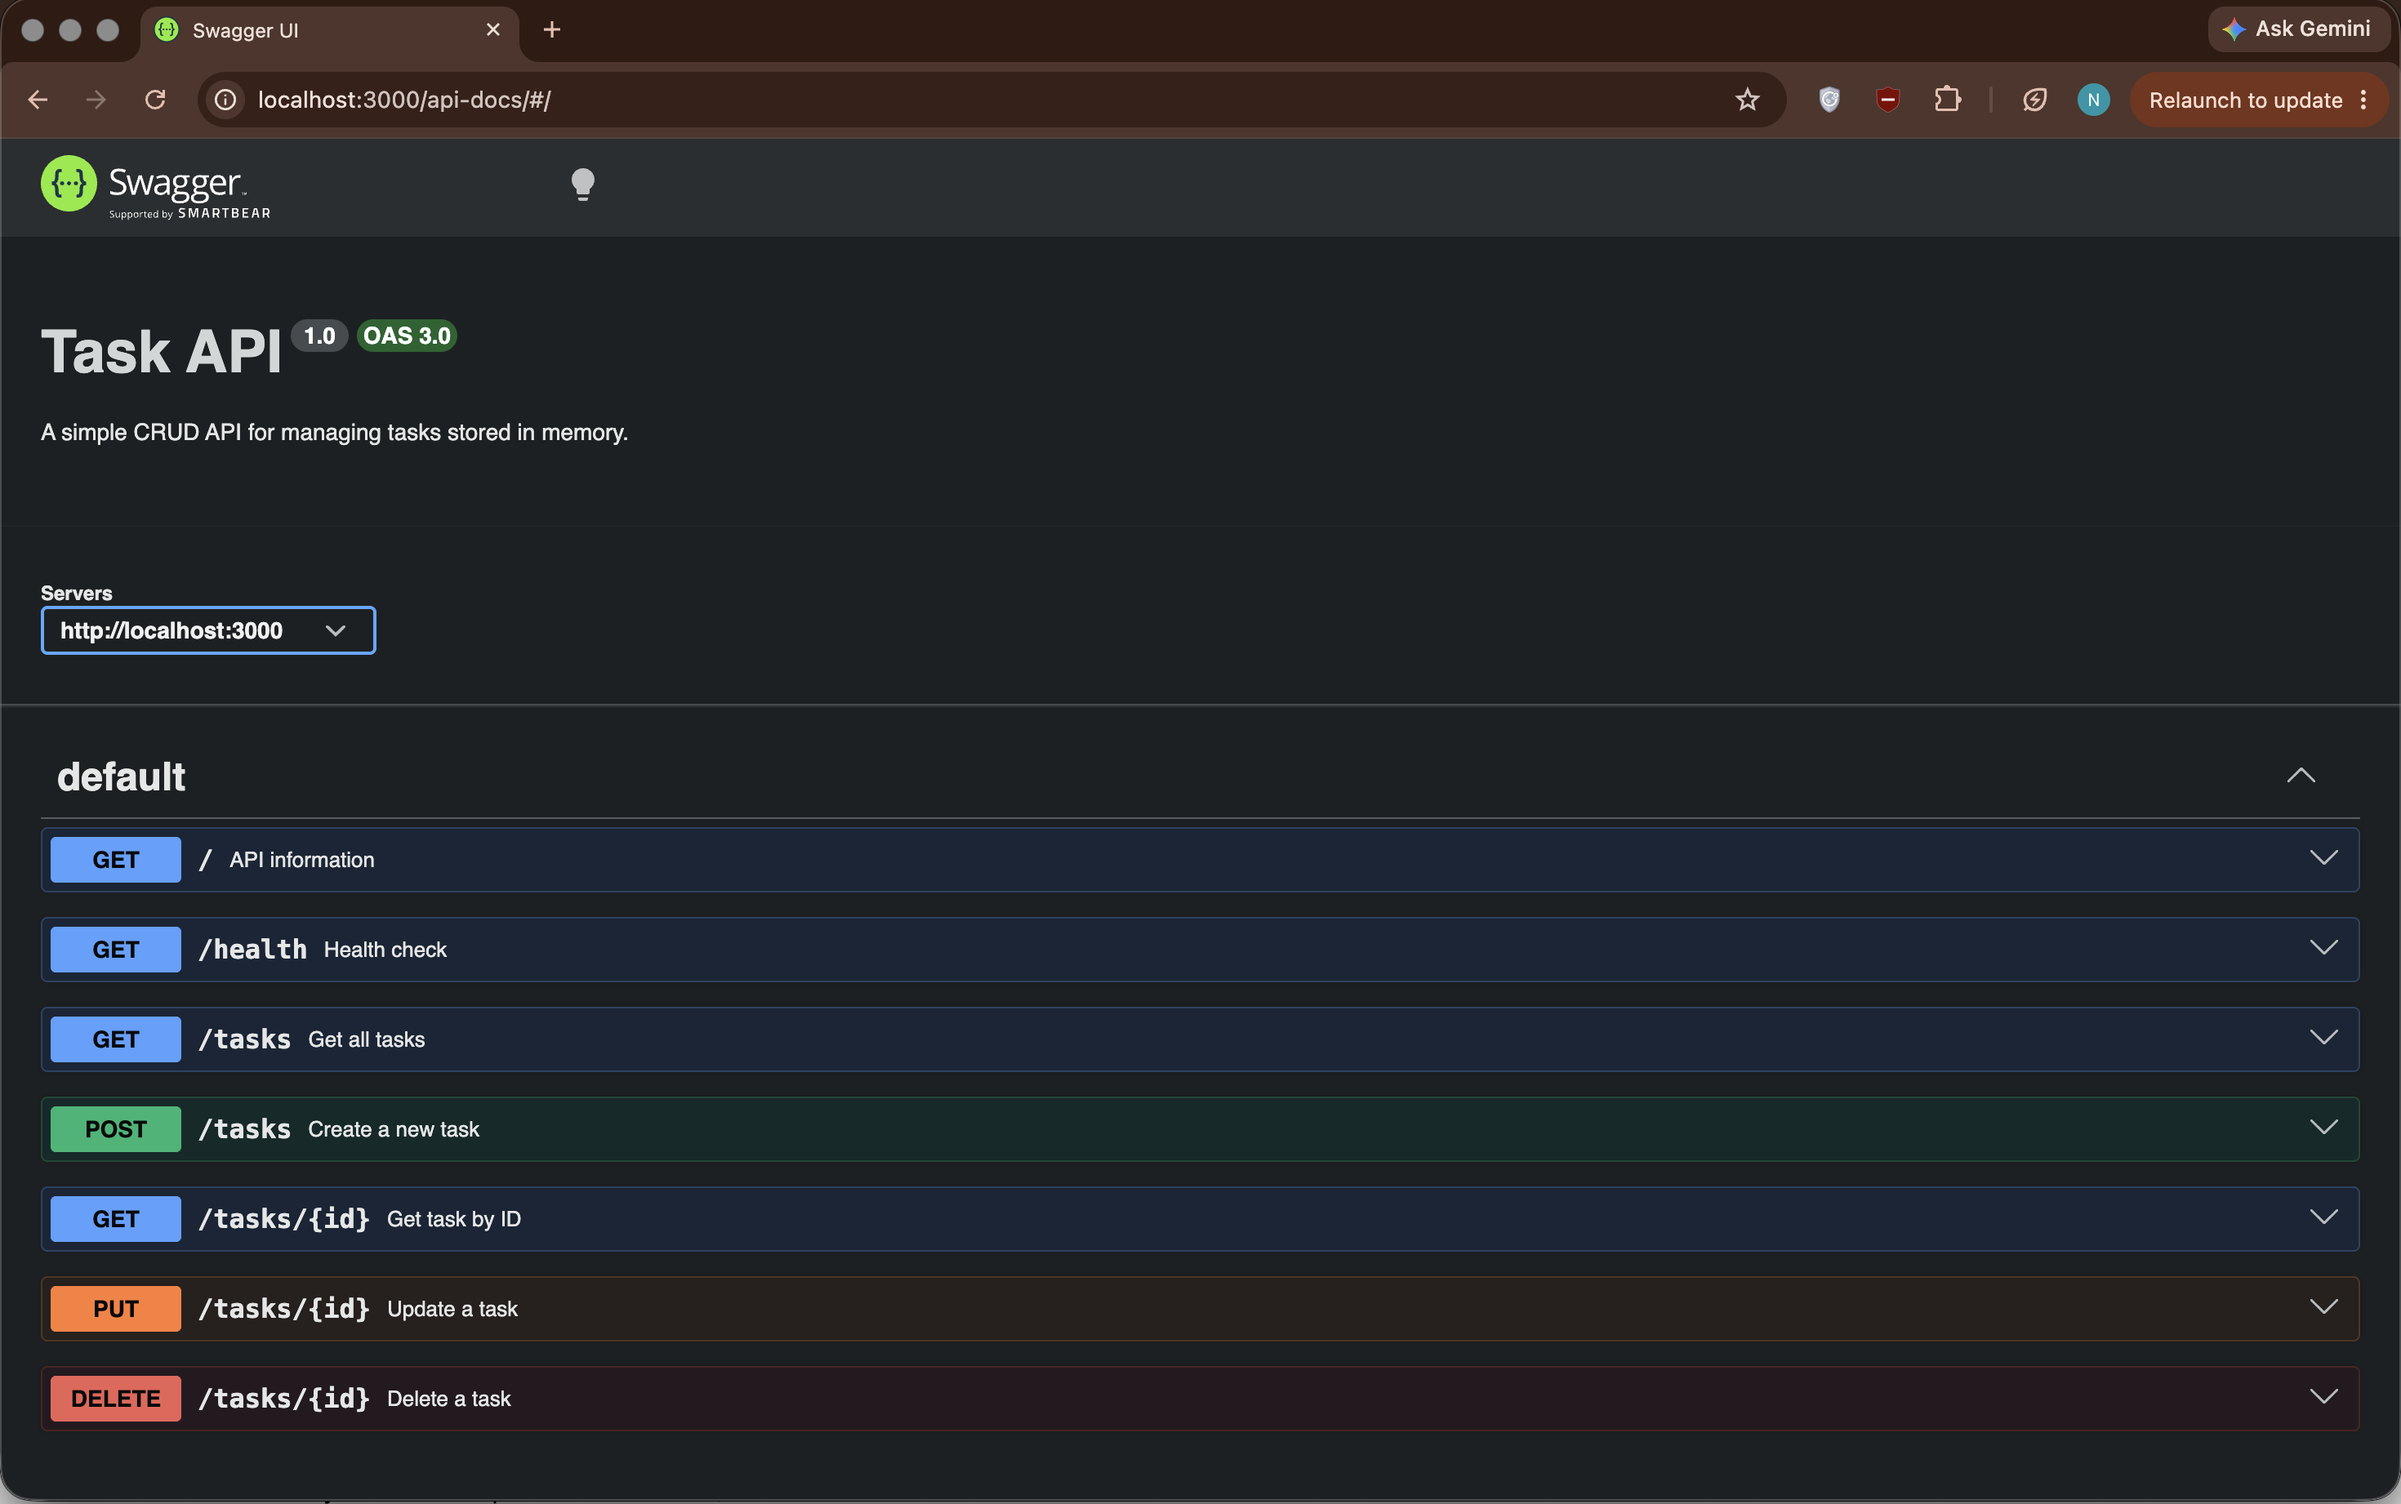
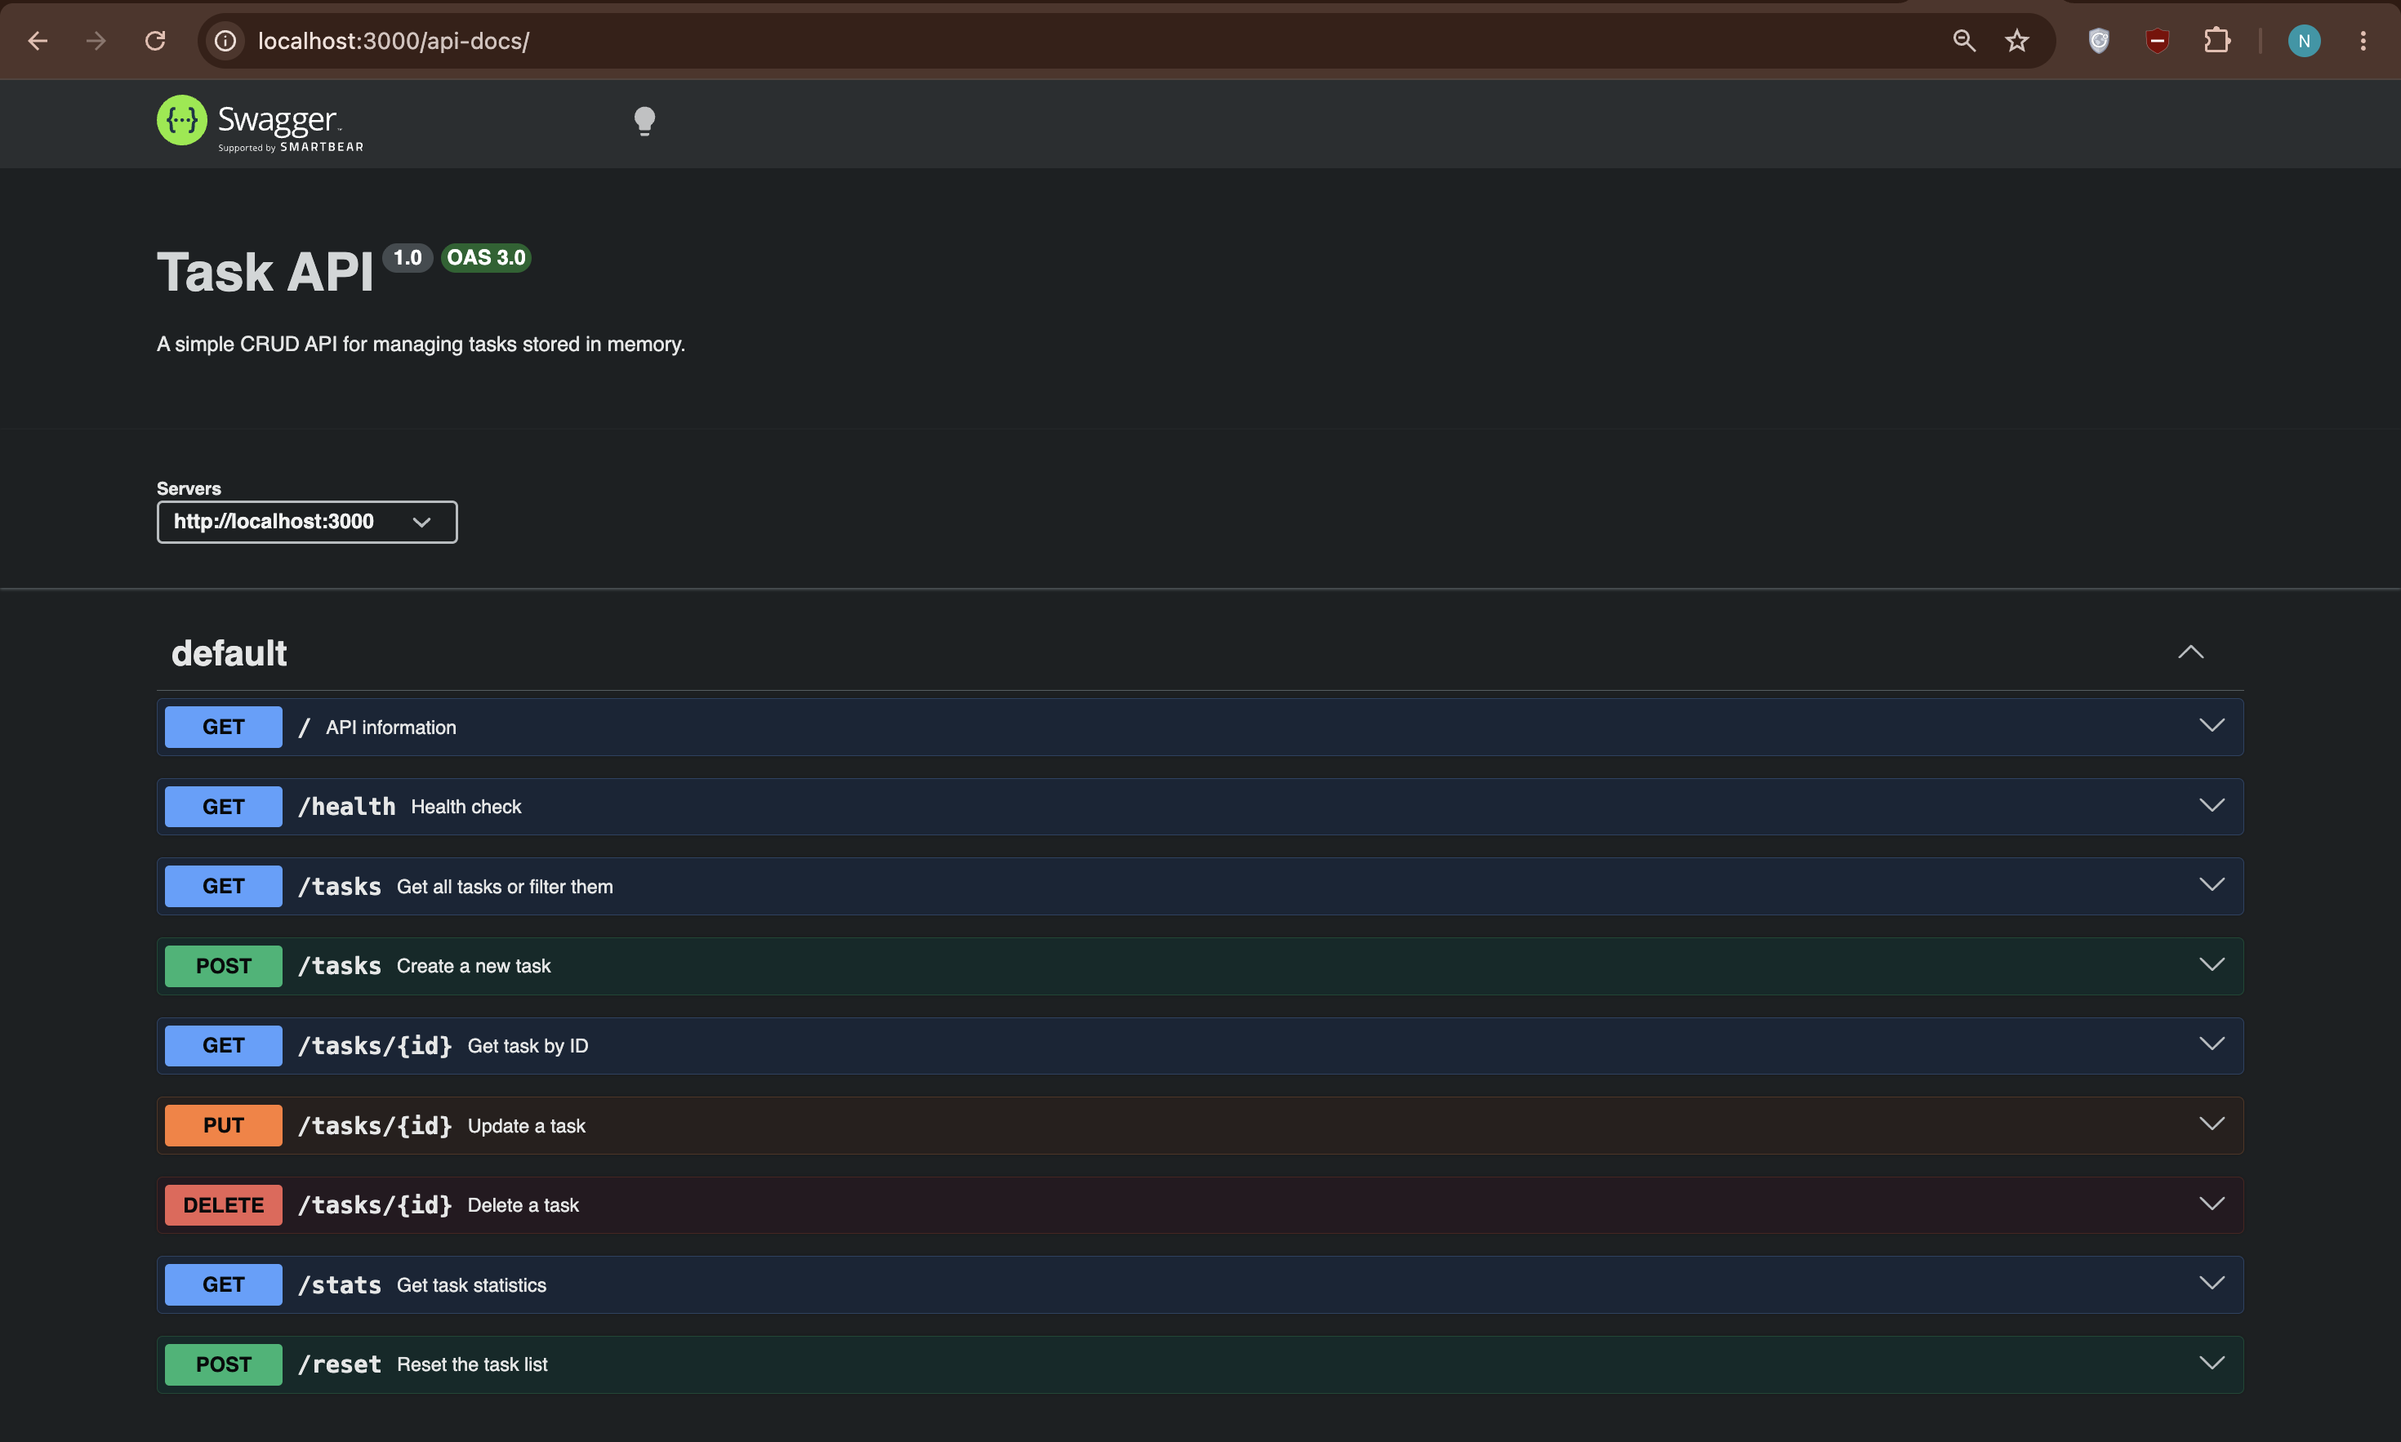
Update README and add new screenshots for Assignment 3

diff --git a/Backend AI Engineering/Week 3/Assignment 3/README.md b/Backend AI Engineering/Week 3/Assignment 3/README.md
@@ -1,0 +1,295 @@
+# Task API
+
+A RESTful CRUD API built with **Node.js**, **Express.js**, and **PostgreSQL**, running as a fully containerized stack via **Docker Compose**. The API supports full CRUD, filtering, search, statistics, and reset — with data persisting in a real database server, not a file or memory. The stack also includes Redis (connectivity only, for a future assignment) and a dependency-aware health check.
+
+> **Note:** Tasks are stored in PostgreSQL, running in its own Docker container with a named volume. The entire stack — app, database, and cache — starts with a single command.
+
+---
+
+## Technologies Used
+
+- Node.js, Express.js
+- PostgreSQL 16 (containerized)
+- Redis 7 (containerized)
+- Docker & Docker Compose
+- `pg` (node-postgres driver), `redis` (Node client)
+- Swagger UI Express, OpenAPI 3.0
+
+---
+
+## Why PostgreSQL + Docker?
+
+PostgreSQL is a real database server, unlike SQLite's single-file storage — it's the same engine behind a large share of production backends. Running it in Docker means no manual Postgres installation: `docker compose up` brings up an identical database on any machine, killing "works on my machine" for good. A named Docker volume keeps the data on disk outside the container, so it survives even if the container is destroyed and rebuilt.
+
+---
+
+## Running the Whole Stack
+
+```bash
+cp .env.example .env
+docker compose up
+```
+
+One command builds the app image, starts PostgreSQL and Redis, waits for Postgres to be genuinely ready (via a healthcheck), then starts the API. No manual database setup.
+
+- API: `http://localhost:3000`
+- Swagger UI: `http://localhost:3000/api-docs`
+
+On first boot, the app automatically:
+- Creates the `tasks` table if it doesn't exist
+- Seeds three example tasks only if the table is empty
+- Connects to Redis and logs a `PONG` on successful ping
+
+To stop everything: `docker compose down` (add `-v` only if you want to wipe the database volume too — omit it to keep your data).
+
+---
+
+## Environment Variables
+
+Copy `.env.example` to `.env` — the defaults work out of the box for local use:
+
+| Variable | Purpose |
+|---|---|
+| `POSTGRES_USER` | Database username |
+| `POSTGRES_PASSWORD` | Database password |
+| `POSTGRES_DB` | Database name |
+| `DATABASE_URL` | Full connection string (used when running the app outside Docker) |
+| `PORT` | Port the API listens on |
+
+`.env` is git-ignored; `.env.example` is committed with placeholder values so a stranger knows exactly what to set. Redis's connection address is set directly in code (`redis://redis:6379`, the compose service name) since it holds no secret worth externalizing for this stretch.
+
+---
+
+## API Endpoints
+
+| Method | Endpoint | Description |
+|--------|----------|-------------|
+| GET | `/` | Returns API information |
+| GET | `/health` | Reports app and database health (see below) |
+| GET | `/tasks` | Returns all tasks; supports `?done=true/false` and `?search=keyword` |
+| GET | `/tasks/:id` | Returns a task by ID |
+| POST | `/tasks` | Creates a new task |
+| PUT | `/tasks/:id` | Updates an existing task |
+| DELETE | `/tasks/:id` | Deletes a task |
+| GET | `/stats` | Returns `{ total, done, open }` |
+| POST | `/reset` | Restores the three sample tasks |
+
+---
+
+## Example Request
+
+```bash
+curl -i -X POST http://localhost:3000/tasks \
+-H "Content-Type: application/json" \
+-d '{"title":"Create New Task"}'
+```
+
+```http
+HTTP/1.1 201 Created
+Content-Type: application/json; charset=utf-8
+
+{
+  "id": 4,
+  "title": "Create New Task",
+  "done": false
+}
+```
+
+---
+
+## Data in the Database
+
+Verified directly with `psql` inside the running container:
+
+```bash
+docker exec -it tasks-postgres psql -U taskuser -d tasksdb -c "\dt"
+docker exec -it tasks-postgres psql -U taskuser -d tasksdb -c "SELECT * FROM tasks;"
+```
+
+![PostgreSQL data](screenshots/postgres-data.png)
+
+---
+
+## Proving Persistence Across a Full-Stack Restart
+
+The core requirement of this assignment: create data, tear down *both* containers, bring them back up, and confirm the data survived — because a named Docker volume, not the containers themselves, is what keeps the rows alive.
+
+```bash
+$ curl -i -X POST http://localhost:3000/tasks \
+  -H "Content-Type: application/json" \
+  -d '{"title":"Full stack persistence check"}'
+HTTP/1.1 201 Created
+{"id":4,"title":"Full stack persistence check","done":false}
+
+$ docker compose down
+ ✔ Container assignment3-api-1 Removed
+ ✔ Container assignment3-db-1  Removed
+ ✔ Network assignment3_default Removed
+
+$ docker compose up
+ ✔ Container assignment3-db-1  Created
+ ✔ Container assignment3-api-1 Created
+Container assignment3-db-1 Healthy
+api-1  | Server running on http://localhost:3000
+
+$ curl -i http://localhost:3000/tasks
+HTTP/1.1 200 OK
+[{"id":1,...},{"id":2,...},{"id":3,...},{"id":4,"title":"Full stack persistence check","done":false}]
+```
+
+Task 4 survived a complete teardown of both containers — proof the volume, not the running process, owns the data.
+
+---
+
+## Swagger UI
+
+![Swagger UI](screenshots/Main.png)
+
+---
+
+## The API Never Changed — Only the Storage Did
+
+This is the third storage engine for the same API, in the same repo:
+
+| Assignment | Where tasks live | What runs it |
+|---|---|---|
+| A1 | A JavaScript array | The Node process |
+| A2 | A `tasks.db` file | SQLite, on disk |
+| A3 (this) | Rows in a `tasks` table | PostgreSQL, in a container |
+
+Across all three, the routes and their behavior — request shapes, response shapes, status codes — never changed. Only the code inside `tasksRepository.js` did. That's the actual point of a repository module: swapping storage should touch one file, not the routes built on top of it.
+
+---
+
+## Extra: A Real Health Check (and What Broke When I Built It)
+
+`GET /health` doesn't just say "the process is running" — it actively runs `SELECT 1` against Postgres on every call, so it can tell the difference between "the app is up" and "the app is up but its database is unreachable."
+
+```js
+app.get("/health", async (req, res) => {
+    try {
+        await repository.checkDatabaseHealth();
+        res.json({ status: "ok", db: "ok" });
+    } catch (err) {
+        res.status(503).json({ status: "ok", db: "unreachable" });
+    }
+});
+```
+
+`503 Service Unavailable` is used deliberately instead of `500` — it signals "I'm fine, but a dependency isn't," which is exactly what load balancers and orchestration tools (Kubernetes, AWS health checks) watch for to decide whether to keep routing traffic to an instance.
+
+**Testing this the first time crashed the whole app**, not just the health route. Stopping the `db` container killed an *idle* connection in `pg`'s connection pool — not the one being actively queried — and `pg` emitted an unhandled `'error'` event on the pool itself. In Node, an unhandled `EventEmitter` error is fatal by default, so the entire `api` container crashed instead of the health check gracefully reporting `503`. The fix was a single listener in `db.js`:
+
+```js
+pool.on("error", (err) => {
+    console.error("Unexpected error on idle database client:", err.message);
+});
+```
+
+Verified both directions:
+
+```bash
+$ docker compose stop db
+$ curl -i http://localhost:3000/health
+HTTP/1.1 503 Service Unavailable
+{"status":"ok","db":"unreachable"}
+
+$ docker compose start db
+$ curl -i http://localhost:3000/health
+HTTP/1.1 200 OK
+{"status":"ok","db":"ok"}
+```
+
+The app stayed alive through the outage both times — the fix works, and the failure mode it fixes is a real one, not a hypothetical.
+
+---
+
+## Extra: Index + `EXPLAIN ANALYZE`
+
+To make the comparison meaningful, the table was seeded with 5,000 additional rows before measuring (removed afterward via `POST /reset`).
+
+### Before: Sequential Scan (no index)
+
+![EXPLAIN ANALYZE before index](screenshots/explain-before.png)
+
+### After: Bitmap Heap Scan (with index on `done`)
+
+![EXPLAIN ANALYZE after index](screenshots/explain-after.png)
+
+Execution time barely changed (1.00ms → 1.13ms) even though the plan switched to a `Bitmap Heap Scan`. With `done` being a boolean and roughly a third of rows matching `true`, the index doesn't reduce how much data Postgres has to touch — this is a known limitation of indexing low-cardinality columns, and a good illustration that the query planner optimizes based on actual cost, not just "an index exists, therefore use it."
+
+---
+
+## Extra: Redis Added to the Stack
+
+A `redis` service was added to `docker-compose.yml`, with the app connecting and pinging it once at startup — laying groundwork for caching in a later assignment, not implementing caching yet.
+
+```bash
+api-1 | Server running on http://localhost:3000
+api-1 | Redis says: PONG
+```
+
+Connection uses the compose service name (`redis://redis:6379`), the same networking pattern as the `db` service — inside the compose network, containers reach each other by service name, not `localhost`. An error listener was attached to the Redis client from the start, applying the same lesson learned from the Postgres pool crash above rather than waiting to hit it a second time.
+
+> **Note** Redis connectivity is scoped to the Docker Compose stack; running the app directly via node index.js outside Docker will not resolve the redis hostname, which is expected.
+
+---
+
+## Design Decisions
+
+- **Repository pattern, enforced:** every database call lives in `tasksRepository.js`. Routes call repository functions and know nothing about SQL or which database engine is underneath.
+- **Healthcheck on `db`, gating `api`'s startup:** `depends_on: condition: service_healthy` (not just `depends_on: [db]`) ensures the app doesn't attempt to connect until Postgres has actually finished its startup sequence — plain `depends_on` only waits for the container to exist, not for the database inside it to be ready.
+- **No hardcoded secrets, including in `docker-compose.yml`:** credentials are referenced as `${POSTGRES_USER}` etc., substituted automatically from `.env` at compose time. The compose file itself, committed to git, contains no real password.
+- **`RETURNING *` on INSERT/UPDATE:** Postgres hands back the affected row directly from the same query, removing the separate "insert, then fetch what I just inserted" step SQLite required.
+- **Reset uses `TRUNCATE ... RESTART IDENTITY`:** unlike the A2 SQLite version (where reset tasks kept climbing ids, e.g. 5, 6, 7), this resets the id sequence itself, so reset tasks always come back as 1, 2, 3.
+- **Pool-level error handling:** both the Postgres pool and the Redis client have `.on("error", ...)` listeners, learned directly from a real crash during health-check testing rather than added defensively up front.
+- **Naming:** container/database/volume names in this project (`tasks-postgres`, `tasksdb`, `taskuser`, `tasks-pgdata`) differ from example names used in some guides (`taskdb`, default `postgres` user) — an intentional choice, kept consistent across `.env`, `docker-compose.yml`, and all commands in this README.
+
+---
+
+## Optional Extras
+
+### Filtering and Search
+`?done=true/false` and `?search=keyword` on `GET /tasks`, both combinable, implemented as parameterized SQL `WHERE`/`LIKE` clauses.
+
+### Task Statistics
+`GET /stats` computes `{ total, done, open }` via `SELECT COUNT(*)` in Postgres, not application-level counting.
+
+### Reset Sample Data
+`POST /reset` truncates the table and reseeds the three example tasks, with ids reset to 1, 2, 3.
+
+### Real Health Check, Index + `EXPLAIN ANALYZE`, Redis
+See dedicated sections above.
+
+---
+
+## HTTP Status Codes Used
+
+| Status Code | Meaning |
+|---|---|
+| 200 | Request completed successfully |
+| 201 | Task created successfully |
+| 204 | Task deleted successfully |
+| 400 | Invalid request data |
+| 404 | Task not found |
+| 503 | Server running, but database unreachable |
+
+---
+
+## Project Structure
+
+```text
+Assignment 3/
+├── index.js
+├── db.js
+├── tasksRepository.js
+├── openapi.json
+├── Dockerfile
+├── docker-compose.yml
+├── .dockerignore
+├── .env.example
+├── package.json
+├── package-lock.json
+├── README.md
+└── screenshots/
+```

diff --git a/Backend AI Engineering/Week 2/task-api/README.md b/Backend AI Engineering/Week 2/task-api/README.md
@@ -90,7 +90,7 @@ Content-Type: application/json; charset=utf-8
 
 Swagger UI provides interactive documentation for all available endpoints. It allows every endpoint to be tested directly from the browser without using curl.
 
-![Swagger UI Main](screenshots/main.png)
+![Swagger UI Main](screenshots/Main.png)
 
 ![Swagger UI Screenshot 1](screenshots/S0.png)
 

diff --git a/Backend AI Engineering/Week 3/Assignment 2/README.md b/Backend AI Engineering/Week 3/Assignment 2/README.md
@@ -111,7 +111,7 @@ This confirms the API layer and the storage layer are fully separate — the API
 
 Interactive documentation for every endpoint, with a "Try it out" button to test the full CRUD cycle from the browser.
 
-![Swagger UI](Screenshots/main.png)
+![Swagger UI](Screenshots/Main.png)
 
 ---
 
